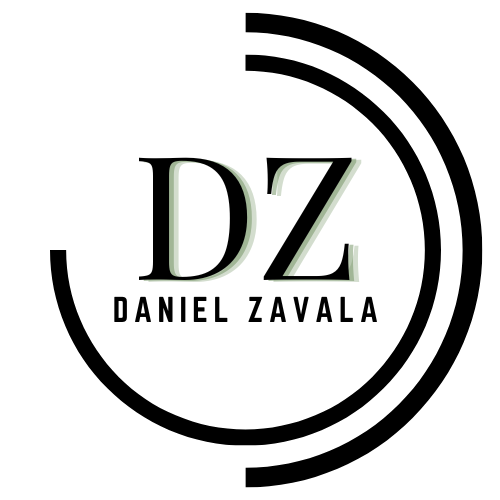
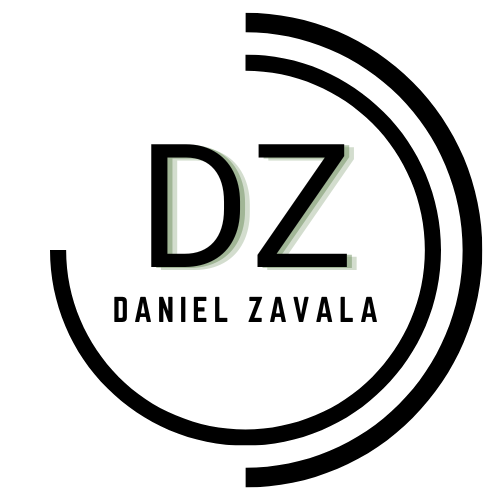
create cards and more edits

Changed region(s): [[0.27, 0.27, 0.72, 0.57]]

diff --git a/index.html b/index.html
@@ -18,12 +18,16 @@
     <script defer src="./app.js"></script>
   </head>
 
+  <style>
+    @import url("https://fonts.googleapis.com/css2?family=Rubik&display=swap");
+  </style>
+
   <body>
     <!-- navbar -->
     <section class="top">
       <nav
         class="navbar navbar-expand-lg text-uppercase"
-        style="background-color: #c5c5c5"
+        style="background-color: rgb(243, 243, 243)"
       >
         <div class="nav-logo container">
           <img src="assets/dz.png" alt="my logo" />
@@ -70,7 +74,7 @@
               <small>Hello! I'm</small> <br />
               Daniel Zavala
             </h2>
-            <h6>Aspiring Front End Developer.</h6>
+            <h6>Aspiring Front End Developer</h6>
             <div class="social-list">
               <a
                 href="https://www.linkedin.com/in/daniel-zavala-aa5960238/"
@@ -103,22 +107,23 @@
       </div>
     </section>
 
-    <!-- dots -->
-    <div class="breaker">
-      <div class="container">
-        <div class="row">
-          <div class="col">
-            <hr class="dotted" />
+    <section id="about-me">
+      <!-- dots -->
+      <div class="breaker">
+        <div class="container">
+          <div class="row">
+            <div class="col py-4">
+              <hr class="dotted" />
+            </div>
           </div>
         </div>
       </div>
-    </div>
 
-    <!-- my story -->
-    <section class="about-me">
+      <!-- my story -->
+
       <div class="container">
         <div class="row">
-          <div class="col py-5 mr-auto">
+          <div class="about-title col py-5 mr-auto">
             <h2>My Story</h2>
             <p style="text-align: left">
               Lorem ipsum dolor sit amet, consectetur adipiscing elit,<br />
@@ -139,22 +144,21 @@
       </div>
     </section>
 
-    <!-- dots -->
-    <div class="breaker">
-      <div class="container">
-        <div class="row">
-          <div class="col">
-            <hr class="dotted" />
+    <section id="projects">
+      <div class="breaker">
+        <div class="container">
+          <div class="row">
+            <div class="col py-5">
+              <hr class="dotted" />
+            </div>
           </div>
         </div>
       </div>
-    </div>
 
-    <!-- my projects -->
-    <section class="projects">
+      <!-- my projects -->
       <div class="container">
         <div class="row">
-          <div class="col py-5">
+          <div class="project-title col py-5">
             <h2>My Projects/Blog</h2>
             <p style="text-align: center">
               Come back to see future projects and blog posts!
@@ -164,7 +168,6 @@
       </div>
     </section>
 
-    <!-- dots -->
     <div class="breaker">
       <div class="container">
         <div class="row">
@@ -175,23 +178,30 @@
       </div>
     </div>
 
-    <footer class="py-2 my-1">
+    <footer class="py-3">
       <div class="container">
         <ul class="foot justify-content-center border-bottom mt-2">
           <li class="footer-link">
             <a
               href="https://www.linkedin.com/in/daniel-zavala-aa5960238/"
+              target="_blank"
               class="footer-link px-4"
               >LinkedIn</a
             >
           </li>
           <li class="footer-link">
-            <a href="https://github.com/daza06" class="footer-link px-4"
+            <a
+              href="https://github.com/daza06"
+              class="footer-link px-4"
+              target="_blank"
               >GitHub</a
             >
           </li>
           <li class="footer-link">
-            <a href="assets/Full Stack Certificate.pdf" class="footer-link px-4"
+            <a
+              href="assets/Full Stack Certificate.pdf"
+              class="footer-link px-4"
+              target="_blank"
               >Resume</a
             >
           </li>

diff --git a/styles/styles.css b/styles/styles.css
@@ -2,10 +2,15 @@
   margin: 0;
   padding: 0;
   box-sizing: border-box;
+  font-family: "Rubik", sans-serif;
 }
 
 html {
   scroll-behavior: smooth;
+}
+
+section {
+  transition: all 300ms ease;
 }
 
 .nav-link {
@@ -79,7 +84,7 @@ html {
 }
 
 .my-face img {
-  filter: drop-shadow(0px 0px 18px rgb(90, 90, 90));
+  filter: drop-shadow(0px 0px 5px rgb(90, 90, 90));
 }
 
 .nav-logo img {
@@ -111,7 +116,7 @@ html {
   align-items: center;
   border-radius: 50%;
   z-index: 100;
-  box-shadow: -5px 0px 6px rgb(63, 63, 63);
+  box-shadow: -3px 0px 4px rgb(63, 63, 63);
 }
 
 .social-link:hover {
@@ -166,7 +171,7 @@ hr.dotted {
   margin: auto;
 }
 
-.about-me h2 {
+#about-me h2 {
   text-align: center;
   font-size: 60px;
   font-weight: 700;
@@ -176,7 +181,7 @@ hr.dotted {
   margin-top: 60px;
 }
 
-.projects h2 {
+#projects h2 {
   text-align: center;
   font-size: 60px;
   font-weight: 700;
@@ -186,23 +191,24 @@ hr.dotted {
   width: 100%;
 }
 
-.about-me p {
+#about-me p {
   font-weight: 500;
   font-size: 18px;
   line-height: 2.5;
-  margin-top: 150px;
+  margin-top: 100px;
+  margin-bottom: 80px;
 }
 
-.projects p {
+#projects p {
   font-weight: 500;
   font-size: 18px;
   line-height: 2.5;
-  margin-top: 150px;
+  margin-top: 100px;
+  margin-bottom: 100px;
 }
 
 footer {
   background-color: #303030;
-  margin-top: 50px;
 }
 
 .footer-links {
@@ -233,6 +239,30 @@ footer {
   flex-wrap: wrap;
   margin-bottom: 10px;
   list-style: none;
+}
+
+.about-title::after {
+  opacity: 1;
+  transform: translateY(-50%);
+}
+
+.about-title {
+  position: relative;
+  border-radius: 30px;
+  box-shadow: 0 0px 20px 0 rgb(0, 0, 0, 0.45);
+  overflow: hidden;
+}
+
+.project-title::after {
+  opacity: 1;
+  transform: translateY(-50%);
+}
+
+.project-title {
+  position: relative;
+  border-radius: 30px;
+  box-shadow: 0 0px 20px 0 rgb(0, 0, 0, 0.45);
+  overflow: hidden;
 }
 /* html {
   font-size: 70%;
